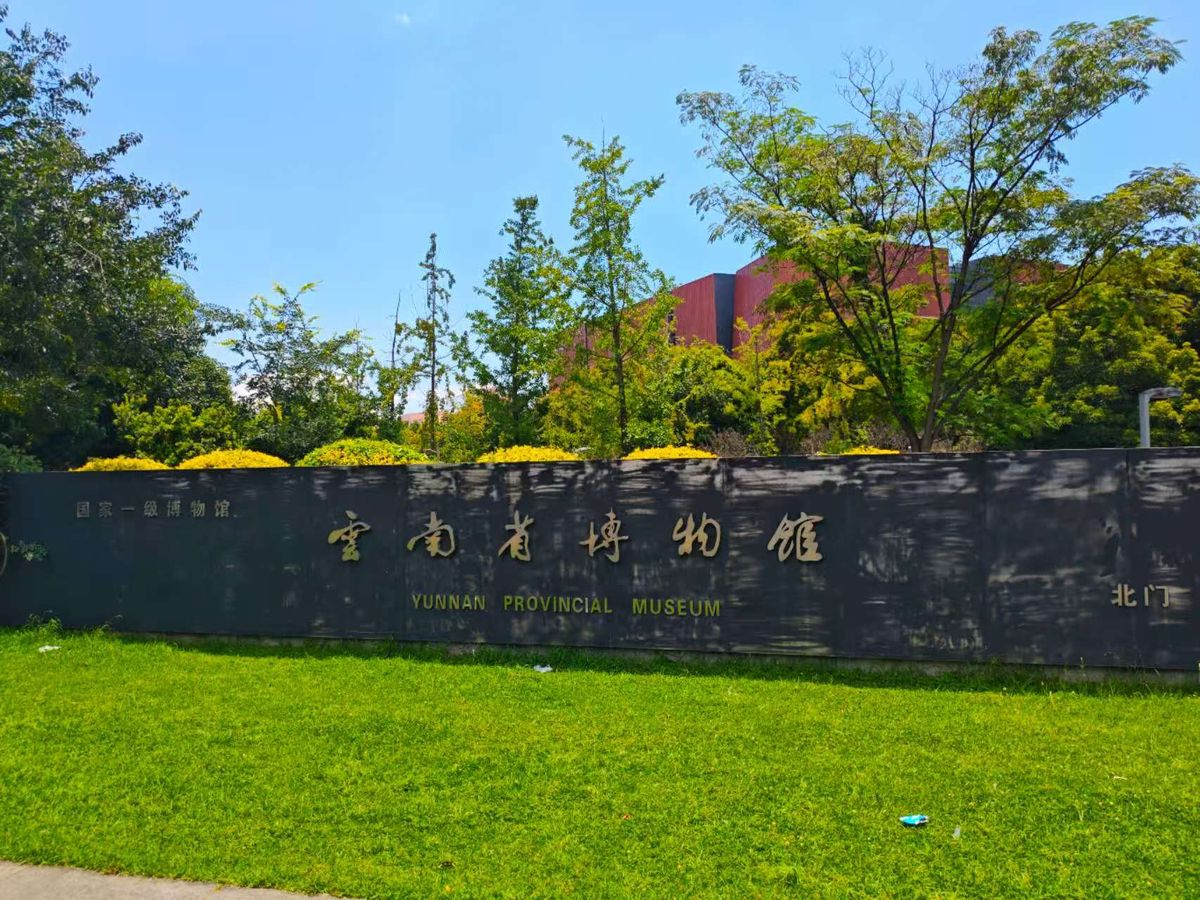
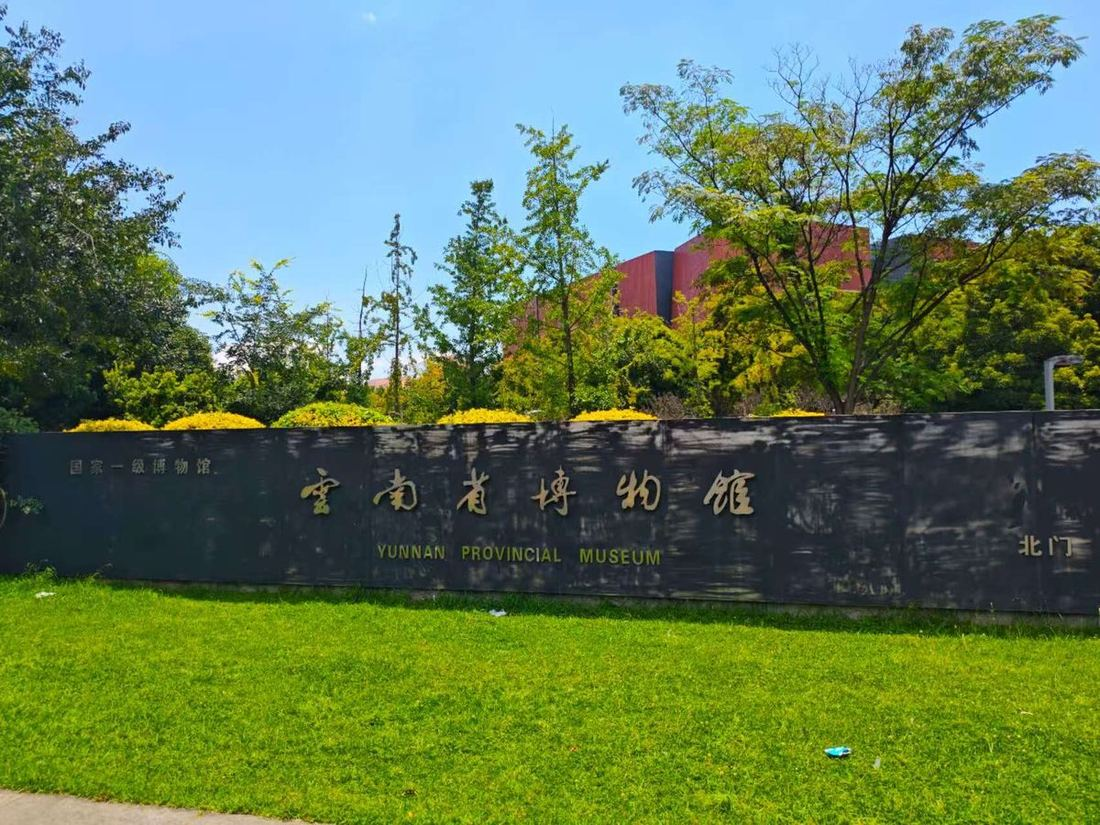
perf: 《云南穷游记》两张昆明照片压到 1100 宽 / 190KB 内
- 体检脚本 200KB 阈值报警，顺手压一档（q78，视觉几乎无差）
- md 里的 width/height 同步改成 1100x825，避免加载时抖动

diff --git a/src/content/blog/2026-11-21.md b/src/content/blog/2026-11-21.md
@@ -58,14 +58,14 @@ tags: [生活]
 大理之旅结束，接下来又得回昆明坐火车。我提前去了一天，因为省博物馆还没去呢。
 
 <figure>
-  <img src="/images/2026-11-21/kunming-museum.jpg" alt="云南省博物馆北门的黑色石墙，金色题字，前面是草坪和绿树" width="1200" height="900" loading="lazy" />
+  <img src="/images/2026-11-21/kunming-museum.jpg" alt="云南省博物馆北门的黑色石墙，金色题字，前面是草坪和绿树" width="1100" height="825" loading="lazy" />
   <figcaption>省博物馆，北门</figcaption>
 </figure>
 
 逛了半天，拍了拍照，也就出来了。想着最后去滇池看看，听说水是臭的，必须去看看。
 
 <figure>
-  <img src="/images/2026-11-21/kunming-wetland.jpg" alt="一片湿地，水杉的树干泡在绿色的水里，阳光从树缝里照下来" width="1200" height="900" loading="lazy" />
+  <img src="/images/2026-11-21/kunming-wetland.jpg" alt="一片湿地，水杉的树干泡在绿色的水里，阳光从树缝里照下来" width="1100" height="825" loading="lazy" />
   <figcaption>昆明的这片水，杉树直接站在水里</figcaption>
 </figure>
 
